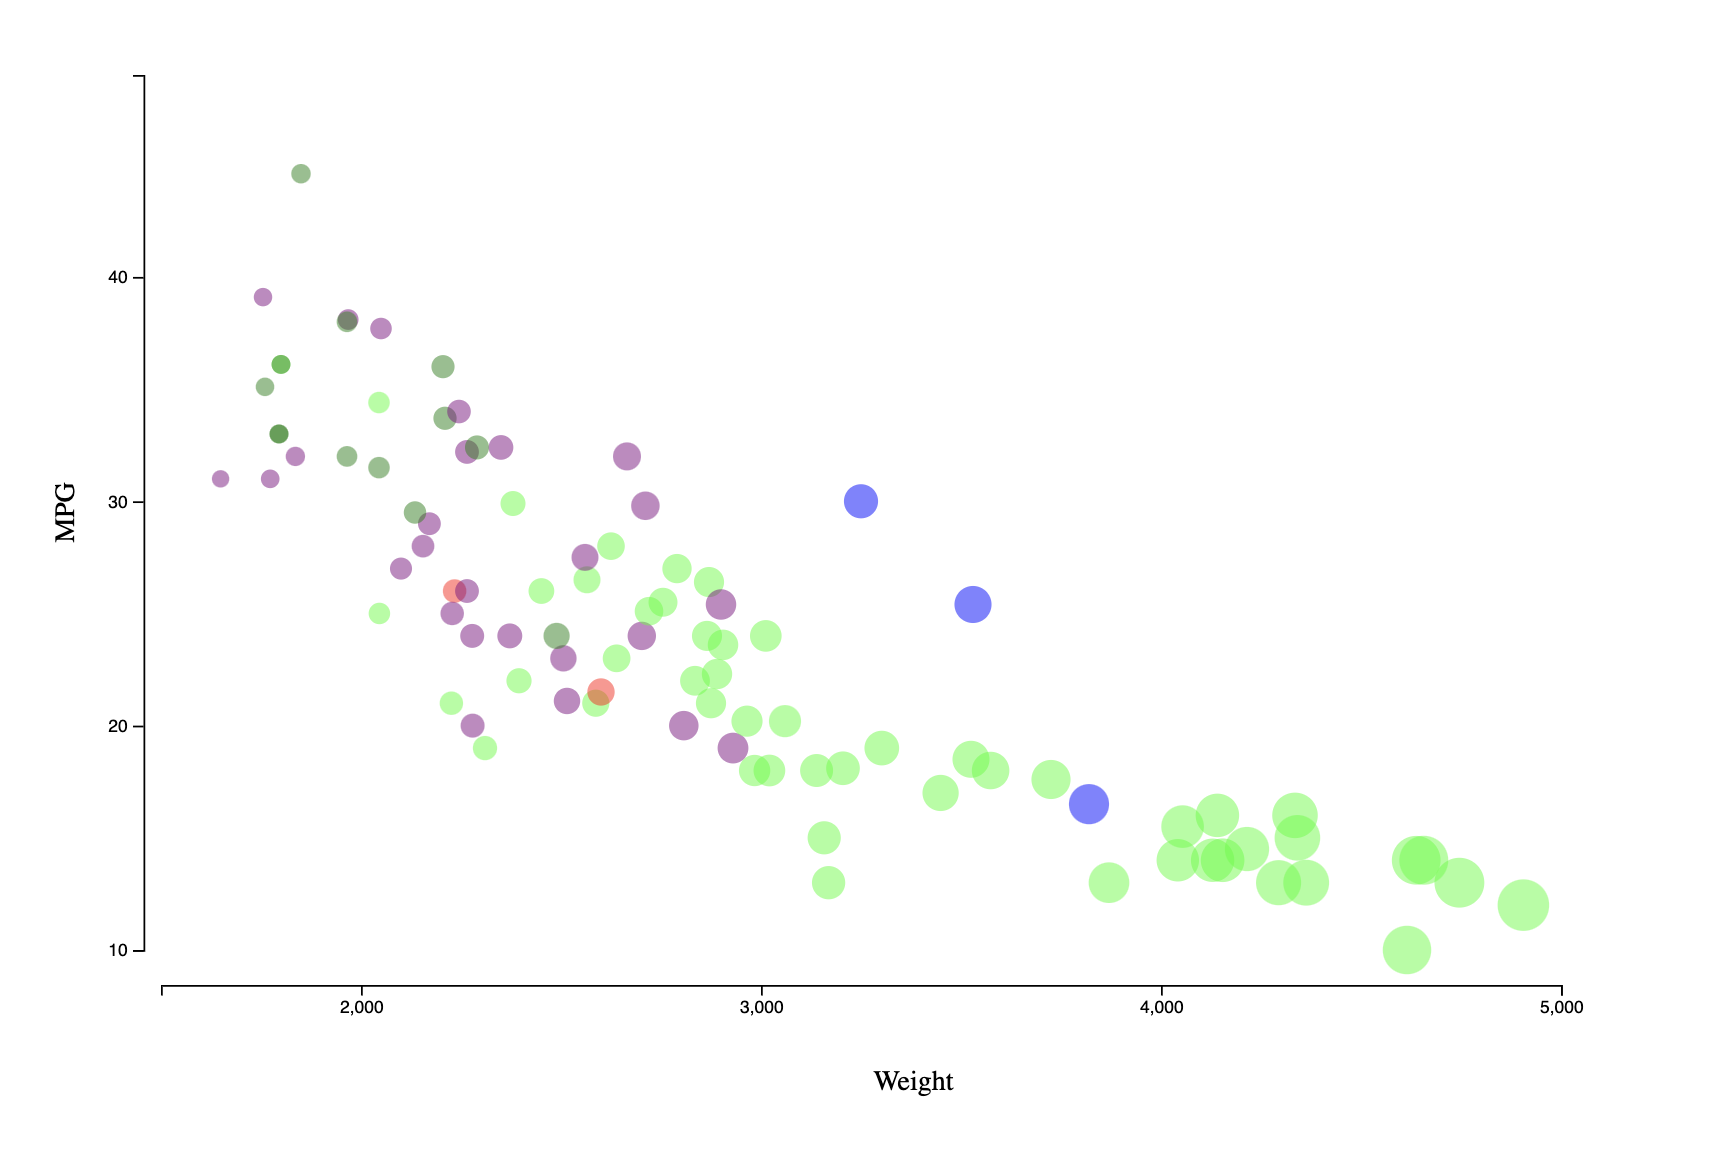
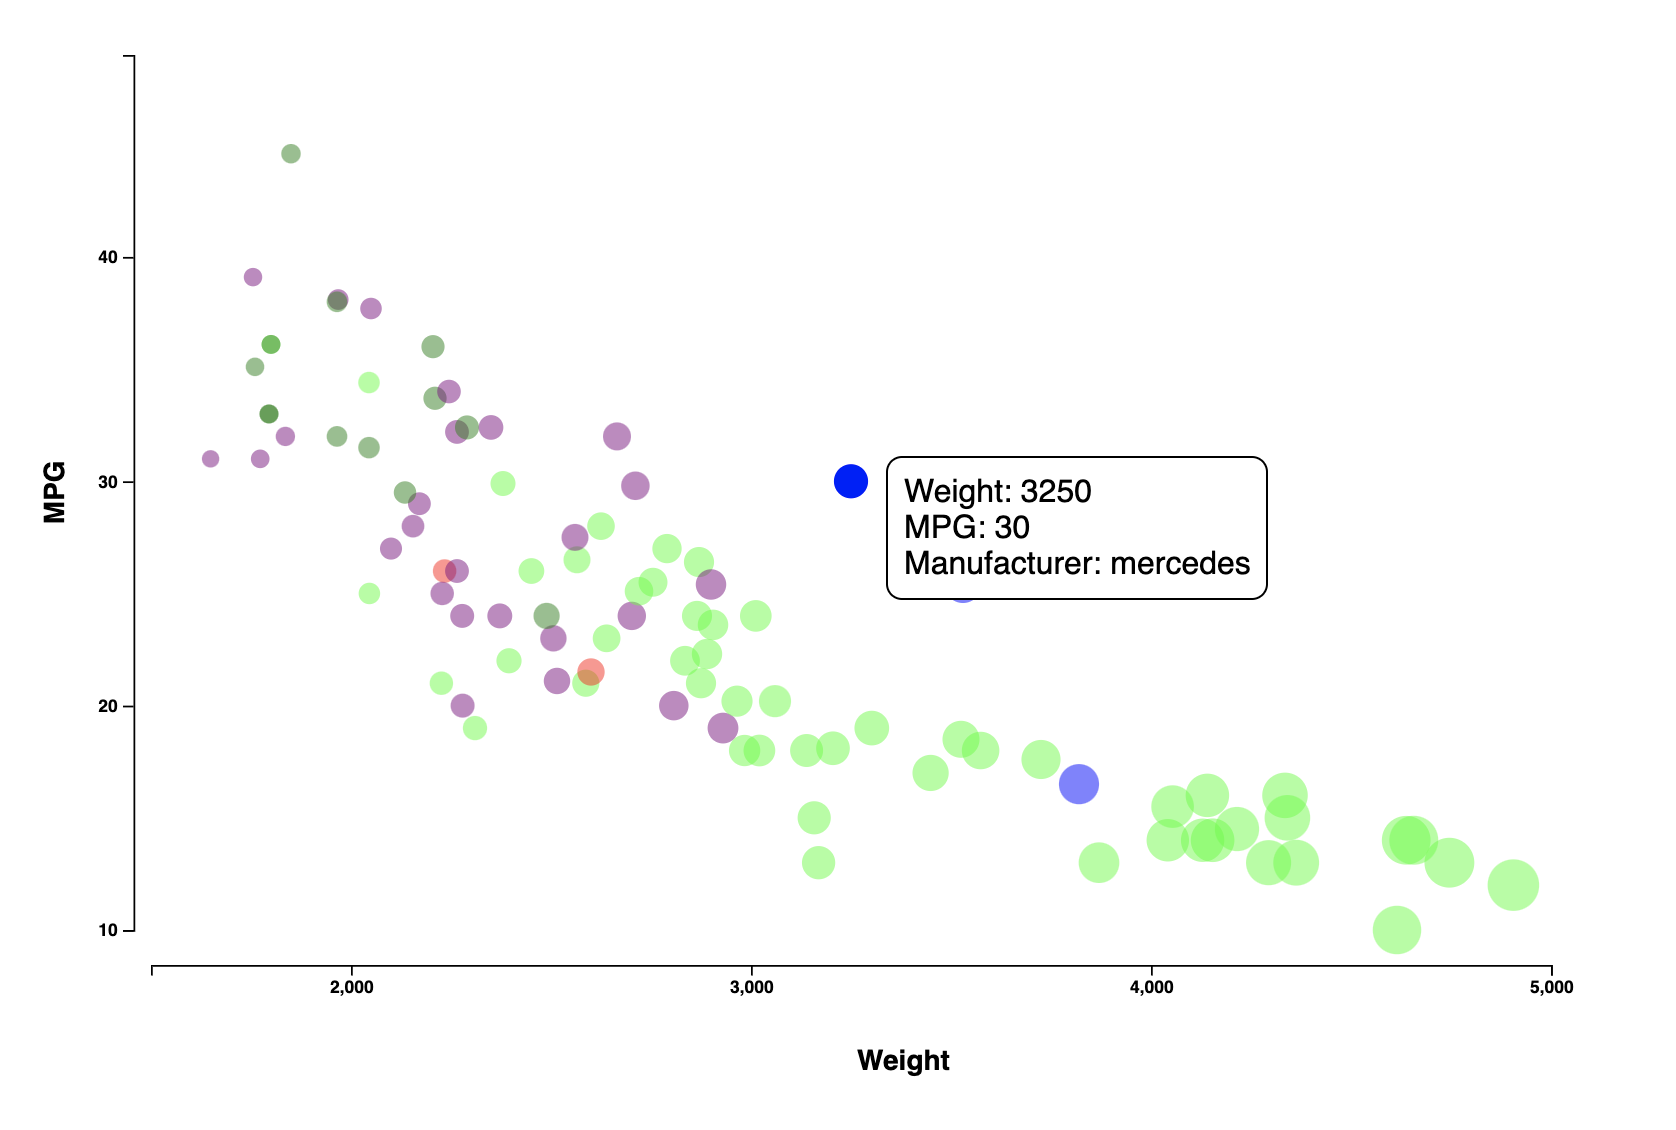
finished readme. still need to add Vega-lite and d3 links

diff --git a/tools/d3/index.html b/tools/d3/index.html
@@ -25,6 +25,25 @@
       top: 0;
       left: 0;
     }
+
+    div.tooltip-point {
+        position: absolute;
+        text-align: left;
+        padding: .5rem;
+        background: #FFFFFF;
+        color: #000000;
+        border: 1px solid #000000;
+        border-radius: 8px;
+        pointer-events: none;
+        font-family: sans-serif;
+        font-size: 1rem;
+    }
+
+    text {
+        font-family: sans-serif;
+        font-weight: bold;
+    }
+
   </style>
 </head>
 <body>
@@ -32,13 +51,16 @@
     </div>
 
     <script>
-        console.log(d3); // test if d3 is loaded
+        console.log(d3);
 
-        // Add an SVG
         var svg = d3.select('div#container').append('svg')
             .attr('viewBox', '0 0 1920 1080')
             .attr('preserveAspectRatio', 'xMinYMin meet')
             .classed('svg-content', true)
+
+        var tooltip = d3.select("body").append("div")
+            .attr("class", "tooltip-point")
+            .style("opacity", 0);
 
         var x = d3.scaleLinear()
             .domain([1500, 5000])
@@ -102,28 +124,32 @@
                                 return "blue";
                         }
                     })
-                    .style("opacity", 0.5);  
+                    .style("opacity", 0.5)  
+                    .on('mouseover', function (d,i) {
+                        d3.select(this).transition()
+                            .duration('50')
+                            .style('opacity',1);
+
+                        tooltip.transition()
+                            .duration(50)
+                            .style('opacity', 1);
+
+                        let profile = 'Weight: ' + (d.Weight.toString()) + '<br>MPG: ' + (d.MPG.toString()) + '<br>Manufacturer: ' + (d.Manufacturer.toString());
+
+                        tooltip.html(profile)
+                            .style("left", (d3.event.pageX + 20) + "px")
+                            .style("top", (d3.event.pageY - 15) + "px");
+                    })
+                    .on('mouseout', function (d,i) {
+                        d3.select(this).transition()
+                            .duration('50')
+                            .style('opacity',0.5);
+                        
+                        tooltip.transition()
+                            .duration(50)
+                            .style('opacity', 0);
+                    });
         })
-
-        
-        /*
-
-        // Add Rectangles
-        var pedal1 = svg.append('rect')
-            .attr('x', '920')
-            .attr('y', '420')
-            .attr('width', '60')
-            .attr('height', '20')
-            .style('fill', 'navy')
-
-        var pedal2 = svg.append('rect')
-            .attr('x', '860')
-            .attr('y', '620')
-            .attr('width', '60')
-            .attr('height', '20')
-            .style('fill', 'navy')
-
-        */ 
     </script>
 </body>
 </html>

diff --git a/README.md b/README.md
@@ -32,7 +32,7 @@ In my implementation, I created the axis and then added data points in the fetch
 I thought that d3 was the most difficult of the tools as it gave the most customization. However, the higher difficulty can be worth it as d3 can produce complex visualizations that have truly unique interactions. For example, it was  annoying to move the circles separately from the axis. In addition, it was strange to add a title to each of the axis. Most of the programs I used had an automatic feature to create an axis title. But even so, I see why d3 does this as to give more freedom to the developer.
 
 ### Screenshots
-![d3](img/d3-1.png)
+![d3](img/d3-2.png)
 
 Flourish
 ---
@@ -72,7 +72,7 @@ I looked at some implementations of ggplot2 to get started and was able to write
 
 I found that ggplot2 was relatively easy to code, but I found setup to be  annoying. When I downloaded the ggplot2 package, it kept requiring me to download dependencies that wouldn't download. Eventually, I moved to using RStudio within Anaconda for package management. When I used RStudio to add packages, I had the same issue. I realized I had to download the packages through Anaconda. And even though I could download new packages in Anaconda, I still had to download the many dependencies for ggplot2 to run. For that reason, I wouldn't recommend this to a new data vis user. I see this library similarly to Vega-lite which requires a little more coding knowledge and can be used for quick and informative graphs.
 
-### Image
+### Screenshots
 ![r-ggplot2](img/r-ggplot2-1.png)
 ![r-ggplot2 - edit interface](img/r-ggplot2-2.png)
 
@@ -98,7 +98,7 @@ To make the graph, I isolated the columns that were significant: MPG, Weight, an
 
 Given that Excel is widely used across various industries, I thought that Excel would be relatively easy to use. However, it was much more tedious to use than other programs. I think that most of my issues derived from Excel's weaker UI design in comparison to data vis programs like Flourish. I think that Excel is useful for people who are already use Excel in their line of work. It's also useful for quick graphs but not necessarily complex, custom visualizations. Even though I complained about Excel's complicated UI, I only spent 20 minutes longer to make the graph.
 
-I used 2 hacks in Excel. First, I used shapes to cover the minimum value labels. By default, Excel makes the minimum value (ex: 10 and 2000) at the left bottom corner of the graph which cuts off values less than 2000. Thus, I made the actual minimum value to be 0 and 1000 and then moved the x and y axis inward. To eliminate the 0 and 1000 labels, I covered them with a white rectangle. Second, I set the y axis' maximum range to 49 which prevented Excel from adding 50 at the top but still keep the top red dot. 
+I used 2 hacks in Excel. First, I used shapes to cover the minimum value labels. By default, Excel makes the minimum value (ex: 10 and 2000) at the left bottom corner of the graph which cuts off values less than 2000. Thus, I made the actual minimum value to be 0 and 1000 and then moved the x and y axis inward. To eliminate the 0 and 1000 labels, I covered them with a white rectangle. Second, I set the y axis' maximum range to 49 which prevented Excel from adding 50 at the top but still keep the top green dot. 
 
 ### Screenshots
 ![Excel](img/excel-1.png)
@@ -124,12 +124,21 @@ Achievements
 1. **NA Handling** - As libraries such as ggplot2 automatically eliminated Weight MPG pairs with NA values, I eliminated rows that had NA values in MPG. By doing so, all of my graphs looked the same as some libraries caused NA values to either default to 0 or mark at the top of my graph. 
 2. **Extra Library** - Even though the base requirement was to use 3 libraries, I used an additional library to total 4 libraries: Matplotlib (Python), ggplot2 (R), d3 (JS), and Vega-lite (JS).
 3. **Maintained Aspect Ratio for d3** - I wrapped my d3 implementation in a viewBox with a 1920x1080 aspect ratio. As a result, my points and text automatically scale down as the window becomes smaller.
-4. **d3 Hover** - Devoted tools like tableau offered a feature that allowed the user to hover over a point and get more information on it. I implemented a similar functionality in d3. !!!NEED TO DO!!!
+4. **d3 Hover** - Data Visualization tools like Tableau allowed the user to hover over a point and get more information on it. I implemented a similar functionality in d3. Upon hovering on a point, I add a tooltip and raise the opacity to 1 for the selected point.
+
+![d3 - hover](img/d3-1.png)
 
 ## Design
-1. **Design Achievement 1** - Description
-Create legends for missing ones
-Match colors?
+1. **Flourish Similar Colors** - When making the Flourish graph, I wanted to get the exact colors from the example. To do so, I pulled the example picture into Sketch and used the eye drop tool to get the hex values. I soon realized that the values needed to be darker in order to compensate for the opacity 0.5. As a result, I decreased the luminance of each value. Below you can see my Flourish implementation and my Sketch Artboard that contains the example plot.
+
+![Design - Flourish Example](img/flourish-2.png)
+![Design - Sketch](img/design-1.png)
+
+1. **d3 Font Change** - Every tool, except d3, used a sans-serif font. By default, d3 had sans-serif font for its axis major tick labels, but had a serif font specifically for the axis text label. In order to maintain consistency across all of the tools, I changed the font of the text to a sans-serif font using CSS and d3. Below were the original states of the plots.
+
+![Design - Old tooltip](img/design-2.png)
+![Design - Old plot](img/design-3.png)
+
 
 Resources
 ===
